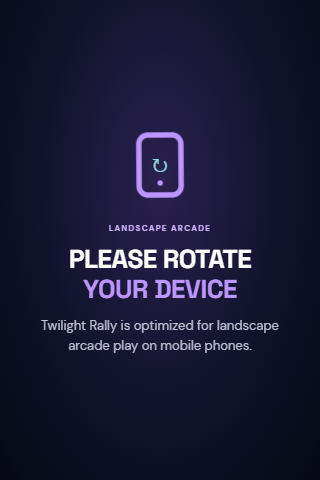
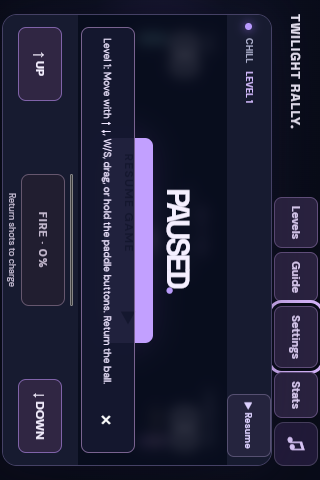
Support mobile forced landscape rendering and touch paddle coordinates

diff --git a/src/styles.css b/src/styles.css
@@ -1360,112 +1360,89 @@ select:focus-visible {
   }
 }
 
-/* Mobile landscape-only orientation blocker */
-.rotate-overlay {
-  display: none;
-  position: fixed;
-  inset: 0;
-  z-index: 99999;
-  background: radial-gradient(
-    ellipse at 50% 38%,
-    #2a204e 0%,
-    #10132b 55%,
-    #070a16 95%
-  );
-  align-items: center;
-  justify-content: center;
-  text-align: center;
-  padding: max(24px, env(safe-area-inset-top))
-    max(24px, env(safe-area-inset-right))
-    max(24px, env(safe-area-inset-bottom))
-    max(24px, env(safe-area-inset-left));
-}
-
-@media (max-width: 768px) and (orientation: portrait),
+/* Forced landscape orientation on mobile portrait */
+@media (max-width: 600px) and (orientation: portrait),
        (max-device-width: 920px) and (orientation: portrait) and (pointer: coarse) {
-  .rotate-overlay {
-    display: flex;
+  html,
+  body {
+    overflow: hidden;
+    width: 100vw;
+    height: 100vh;
+    height: 100dvh;
   }
-}
 
-@media (orientation: landscape) {
-  .rotate-overlay {
-    display: none !important;
+  .shell {
+    position: fixed;
+    top: 0;
+    left: 100vw;
+    width: 100dvh;
+    height: 100dvw;
+    transform-origin: 0 0;
+    transform: rotate(90deg);
+    gap: 2px;
+    padding-top: max(2px, env(safe-area-inset-left));
+    padding-bottom: max(2px, env(safe-area-inset-right));
+    padding-left: max(14px, env(safe-area-inset-top));
+    padding-right: max(14px, env(safe-area-inset-bottom));
   }
-}
 
-.rotate-device-card {
-  display: flex;
-  flex-direction: column;
-  align-items: center;
-  gap: 12px;
-  max-width: 320px;
-  margin: auto;
-}
-
-.rotate-device-icon {
-  position: relative;
-  width: 80px;
-  height: 80px;
-  display: grid;
-  place-items: center;
-  margin-bottom: 6px;
-  color: #bd95ff;
-}
-
-.rotate-device-icon .phone-svg {
-  animation: rotatePhoneAnim 2.8s cubic-bezier(0.4, 0, 0.2, 1) infinite;
-  transform-origin: center;
-}
-
-.rotate-arrow {
-  position: absolute;
-  top: 50%;
-  left: 50%;
-  transform: translate(-50%, -50%);
-  font-size: 20px;
-  color: #9bf0e8;
-  opacity: 0.9;
-}
-
-@keyframes rotatePhoneAnim {
-  0%, 25% {
-    transform: rotate(0deg);
+  .topbar {
+    min-height: 44px;
+    height: 44px;
+    gap: 6px;
   }
-  50%, 75% {
-    transform: rotate(-90deg);
+
+  .topbar-right {
+    gap: 4px;
   }
-  95%, 100% {
-    transform: rotate(0deg);
+
+  .help-button {
+    padding: 6px 9px;
+    font-size: 11px;
+    min-height: 44px;
+    min-width: 44px;
   }
-}
 
-@media (prefers-reduced-motion: reduce) {
-  .rotate-device-icon .phone-svg {
-    animation: none;
-    transform: rotate(-90deg);
+  .game-header {
+    min-height: 44px;
+    height: 44px;
+    padding: 0 8px;
   }
-}
 
-.rotate-device-card h2 {
-  font-family: "Space Grotesk", sans-serif;
-  font-size: 26px;
-  line-height: 1.15;
-  margin: 0;
-  letter-spacing: -0.5px;
-  color: #ffffff;
-}
+  .paddle-controls {
+    padding: 3px 12px;
+    gap: 8px;
+  }
 
-.rotate-device-card h2 em {
-  font-style: normal;
-  color: #bd95ff;
-}
+  .paddle-controls button {
+    min-width: 74px;
+    min-height: 44px;
+    font-size: 12px;
+  }
 
-.rotate-device-card p {
-  font-size: 13px;
-  line-height: 1.5;
-  color: #c0bfd4;
-  margin: 0;
+  .paddle-controls button:active {
+    background: #4a3a66;
+  }
+
+  .learning-tip {
+    font-size: 10px;
+    bottom: 3px;
+  }
+
+  /* Modals in forced landscape */
+  dialog[open],
+  .help-dialog[open] {
+    position: fixed !important;
+    top: 50% !important;
+    left: 50% !important;
+    margin: 0 !important;
+    transform: translate(-50%, -50%) rotate(90deg) !important;
+    transform-origin: center center !important;
+    width: min(520px, calc(100dvh - 32px)) !important;
+    max-width: min(520px, calc(100dvh - 32px)) !important;
+    max-height: min(340px, calc(100dvw - 32px)) !important;
+    overflow-y: auto !important;
+  }
 }
 
 /* Enhanced landscape layout tuning for mobile phones */
@@ -1479,6 +1456,7 @@ select:focus-visible {
   }
   .topbar {
     min-height: 44px;
+    height: 44px;
     gap: 6px;
   }
   .topbar-right {
@@ -1488,9 +1466,11 @@ select:focus-visible {
     padding: 6px 9px;
     font-size: 11px;
     min-height: 44px;
+    min-width: 44px;
   }
   .game-header {
-    height: 36px;
+    min-height: 44px;
+    height: 44px;
     padding: 0 8px;
   }
   .paddle-controls {

diff --git a/src/main.js b/src/main.js
@@ -312,11 +312,24 @@ function animate(timestamp) {
 function updatePointer(event) {
   if (state.phase !== "playing") return;
   const rect = canvas.getBoundingClientRect();
-  state.pointerY = clamp(
-    ((event.clientY - rect.top) / rect.height) * FIELD.height,
-    0,
-    FIELD.height,
-  );
+  const isRotated =
+    rect.width < rect.height ||
+    window.matchMedia(
+      "(max-width: 600px) and (orientation: portrait), (max-device-width: 920px) and (orientation: portrait) and (pointer: coarse)",
+    ).matches;
+  if (isRotated) {
+    state.pointerY = clamp(
+      ((rect.right - event.clientX) / rect.width) * FIELD.height,
+      0,
+      FIELD.height,
+    );
+  } else {
+    state.pointerY = clamp(
+      ((event.clientY - rect.top) / rect.height) * FIELD.height,
+      0,
+      FIELD.height,
+    );
+  }
 }
 
 canvas.addEventListener("pointerdown", (event) => {
@@ -375,20 +388,6 @@ document.addEventListener("visibilitychange", () => {
   )
     pause();
 });
-
-function onOrientationOrResize() {
-  const isPortraitMobile = window.matchMedia(
-    "(max-width: 768px) and (orientation: portrait)",
-  ).matches;
-  if (
-    isPortraitMobile &&
-    ["playing", "between", "countdown"].includes(state.phase)
-  ) {
-    pause();
-  }
-}
-window.addEventListener("resize", onOrientationOrResize);
-window.addEventListener("orientationchange", onOrientationOrResize);
 
 for (const button of document.querySelectorAll("[data-speed]")) {
   button.addEventListener("click", () => {

diff --git a/scripts/test-responsive.js b/scripts/test-responsive.js
@@ -74,20 +74,21 @@ try {
       true,
     );
     const isPortraitPhone = width < 600 && height > width;
-    const rotateVisible = await evaluate(
-      `Boolean(document.getElementById('rotateOverlay') && window.getComputedStyle(document.getElementById('rotateOverlay')).display !== 'none')`,
-    );
+    const isRotated = await evaluate(`(() => {
+      const s = window.getComputedStyle(document.querySelector('.shell'));
+      return s.transform !== 'none';
+    })()`);
     if (isPortraitPhone) {
       assert.equal(
-        rotateVisible,
+        isRotated,
         true,
-        `Rotate overlay must be visible on portrait mobile (${width}x${height})`,
+        `Forced landscape rotation must be active on portrait mobile (${width}x${height})`,
       );
     } else if (width > height) {
       assert.equal(
-        rotateVisible,
+        isRotated,
         false,
-        `Rotate overlay must be hidden on landscape (${width}x${height})`,
+        `Forced landscape rotation must be inactive on landscape (${width}x${height})`,
       );
     }
     const layout = await evaluate(`(() => {

diff --git a/index.html b/index.html
@@ -227,21 +227,6 @@
         </section>
       </main>
     </div>
-    <div id="rotateOverlay" class="rotate-overlay" role="status" aria-live="polite">
-      <div class="rotate-device-card">
-        <div class="rotate-device-icon" aria-hidden="true">
-          <svg class="phone-svg" width="72" height="72" viewBox="0 0 24 24" fill="none" stroke="currentColor" stroke-width="1.8" stroke-linecap="round" stroke-linejoin="round">
-            <rect x="5" y="2" width="14" height="20" rx="3" ry="3"></rect>
-            <line x1="12" y1="18" x2="12.01" y2="18"></line>
-          </svg>
-          <span class="rotate-arrow" aria-hidden="true">↻</span>
-        </div>
-        <div class="hero-badge">LANDSCAPE ARCADE</div>
-        <h2>PLEASE ROTATE<br /><em>YOUR DEVICE</em></h2>
-        <p>Twilight Rally is optimized for landscape arcade play on mobile phones.</p>
-        <span class="overlay-help">Turn your device horizontally to play</span>
-      </div>
-    </div>
     <dialog
       id="resultsOptionsDialog"
       class="help-dialog"
